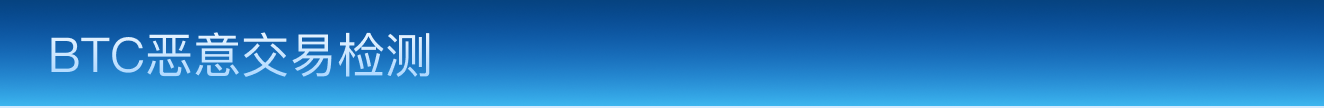
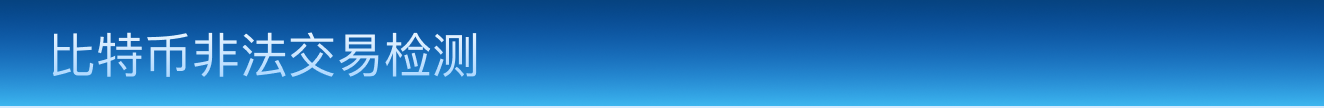
南信大文档需求变动0.9

Changed region(s): [[0.031, 0.3056, 0.3716, 0.7222]]

diff --git a/src/pages/detection-privacy/DetectionPrivacy.tsx b/src/pages/detection-privacy/DetectionPrivacy.tsx
@@ -7,7 +7,7 @@
  * @Author: didadida262
  * @Date: 2024-08-26 10:16:45
  * @LastEditors: didadida262
- * @LastEditTime: 2024-09-10 17:15:36
+ * @LastEditTime: 2024-09-12 15:58:20
  */
 import { notification } from "antd";
 import cn from "classnames";
@@ -95,7 +95,7 @@ const [detectionSampleList, setdetectionSampleList] = useState([]) as any;
     
     const response = await detectPrivacy(params);
     console.log("response>>>", response);
-    // setResultContent("");
+    setResultContent(response.result);
     console.log("params>>>>", params);
   };
   const getActionLogList = async () => {
@@ -164,7 +164,7 @@ const [detectionSampleList, setdetectionSampleList] = useState([]) as any;
                 </div> */}
               <div className={`w-full h-[36px] flex items-center`}>
                 <InputCommonV2
-                  placeholder="1000-2000"
+                  placeholder="0-500"
                   onInput={(val: any) => {
                     setInputRange(val);
                   }}

diff --git a/src/pages/detection-fish/DetectionFish.tsx b/src/pages/detection-fish/DetectionFish.tsx
@@ -7,7 +7,7 @@
  * @Author: didadida262
  * @Date: 2024-08-26 10:16:45
  * @LastEditors: didadida262
- * @LastEditTime: 2024-09-10 14:09:03
+ * @LastEditTime: 2024-09-12 16:03:42
  */
 import { notification } from "antd";
 import cn from "classnames";
@@ -158,7 +158,9 @@ export function DetectionFish() {
                 "bg-[#02004D4D] pl-5"
               )}
             >
-              <span className="text-[20px] text-[#ffffff]">历史检测数据</span>
+              <span className="text-[20px] text-[#ffffff]">
+                历史检测数据-基于图神经网络的钓鱼攻击检测模型
+              </span>
             </div>
 
             <TableCommonV4

diff --git a/src/components/LeftMenu/_menu.ts b/src/components/LeftMenu/_menu.ts
@@ -3,7 +3,7 @@
  * @Author: didadida262
  * @Date: 2024-08-30 11:15:05
  * @LastEditors: didadida262
- * @LastEditTime: 2024-09-12 14:33:15
+ * @LastEditTime: 2024-09-12 15:49:34
  */
 /* eslint-disable @typescript-eslint/no-unsafe-call */
 import type { MenuProps } from 'antd';
@@ -83,7 +83,7 @@ export const MenuList: any[] = [
         key: '/threat-evidence/fewidentity-inference'
       },
       {
-        label: '链内取证-非法交易检测',
+        label: '链内取证-比特币非法交易检测',
         key: '/threat-evidence/malicious-transaction'
       },
       {
